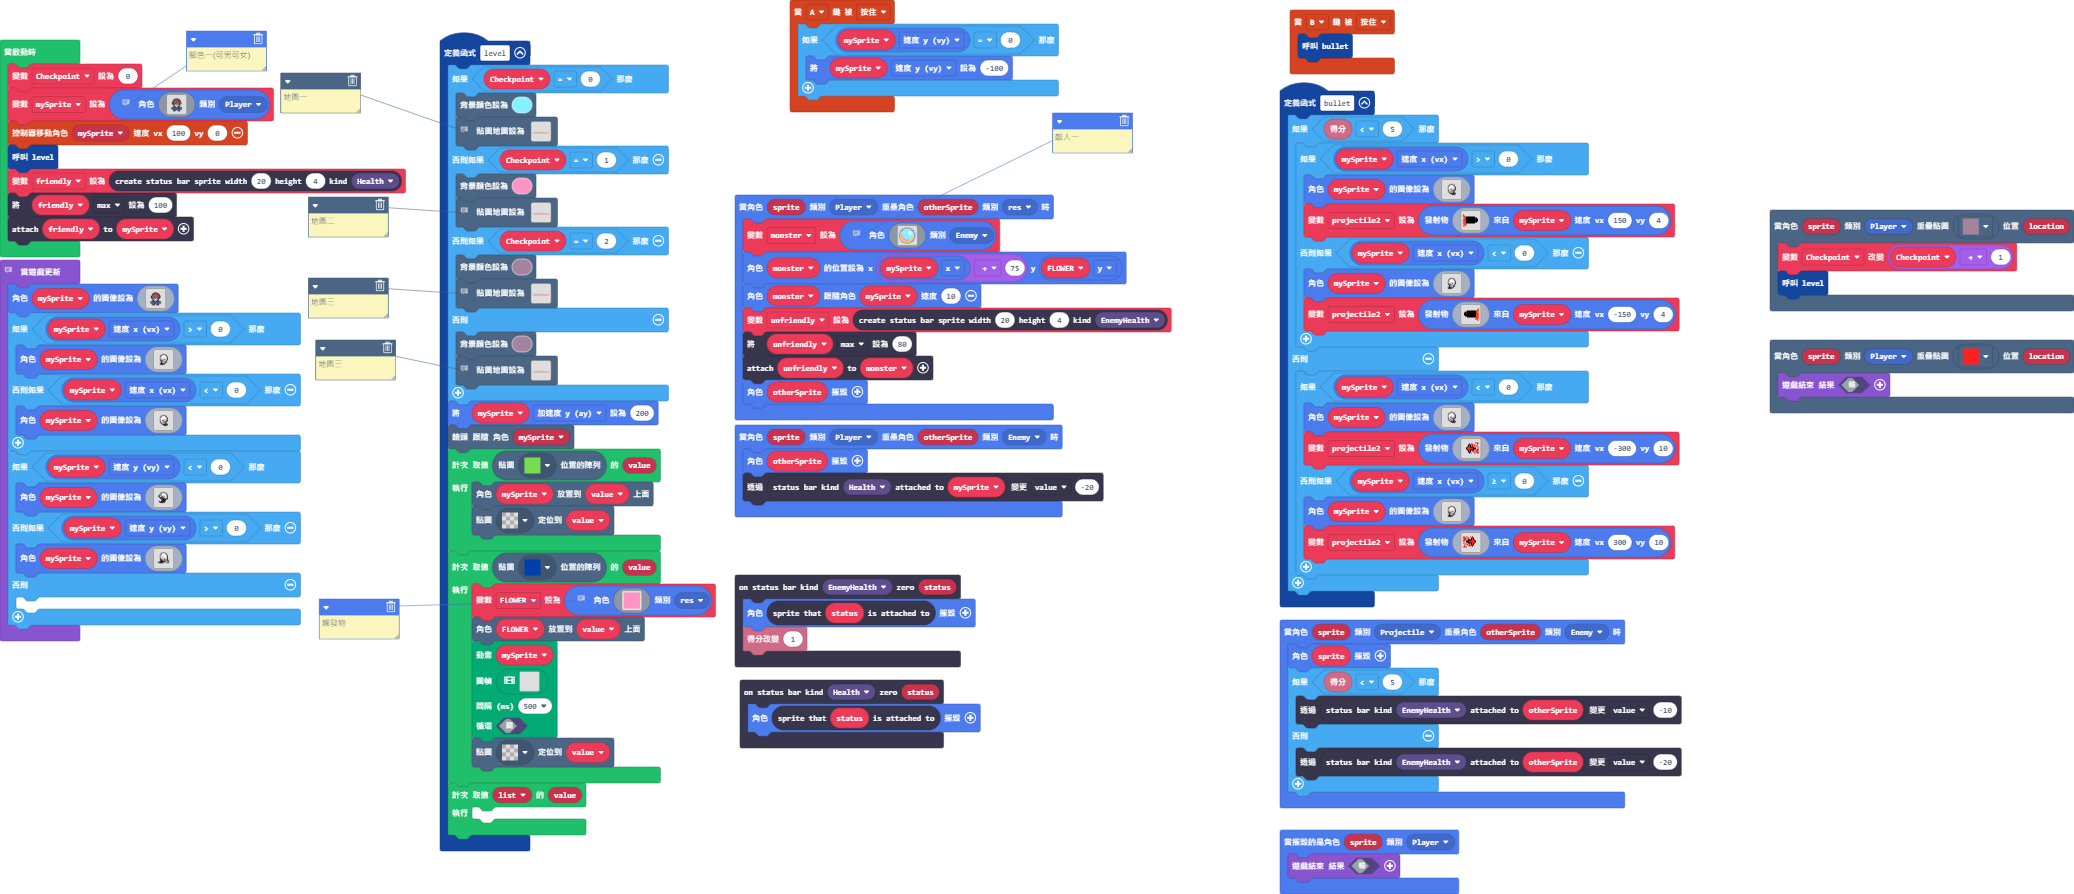
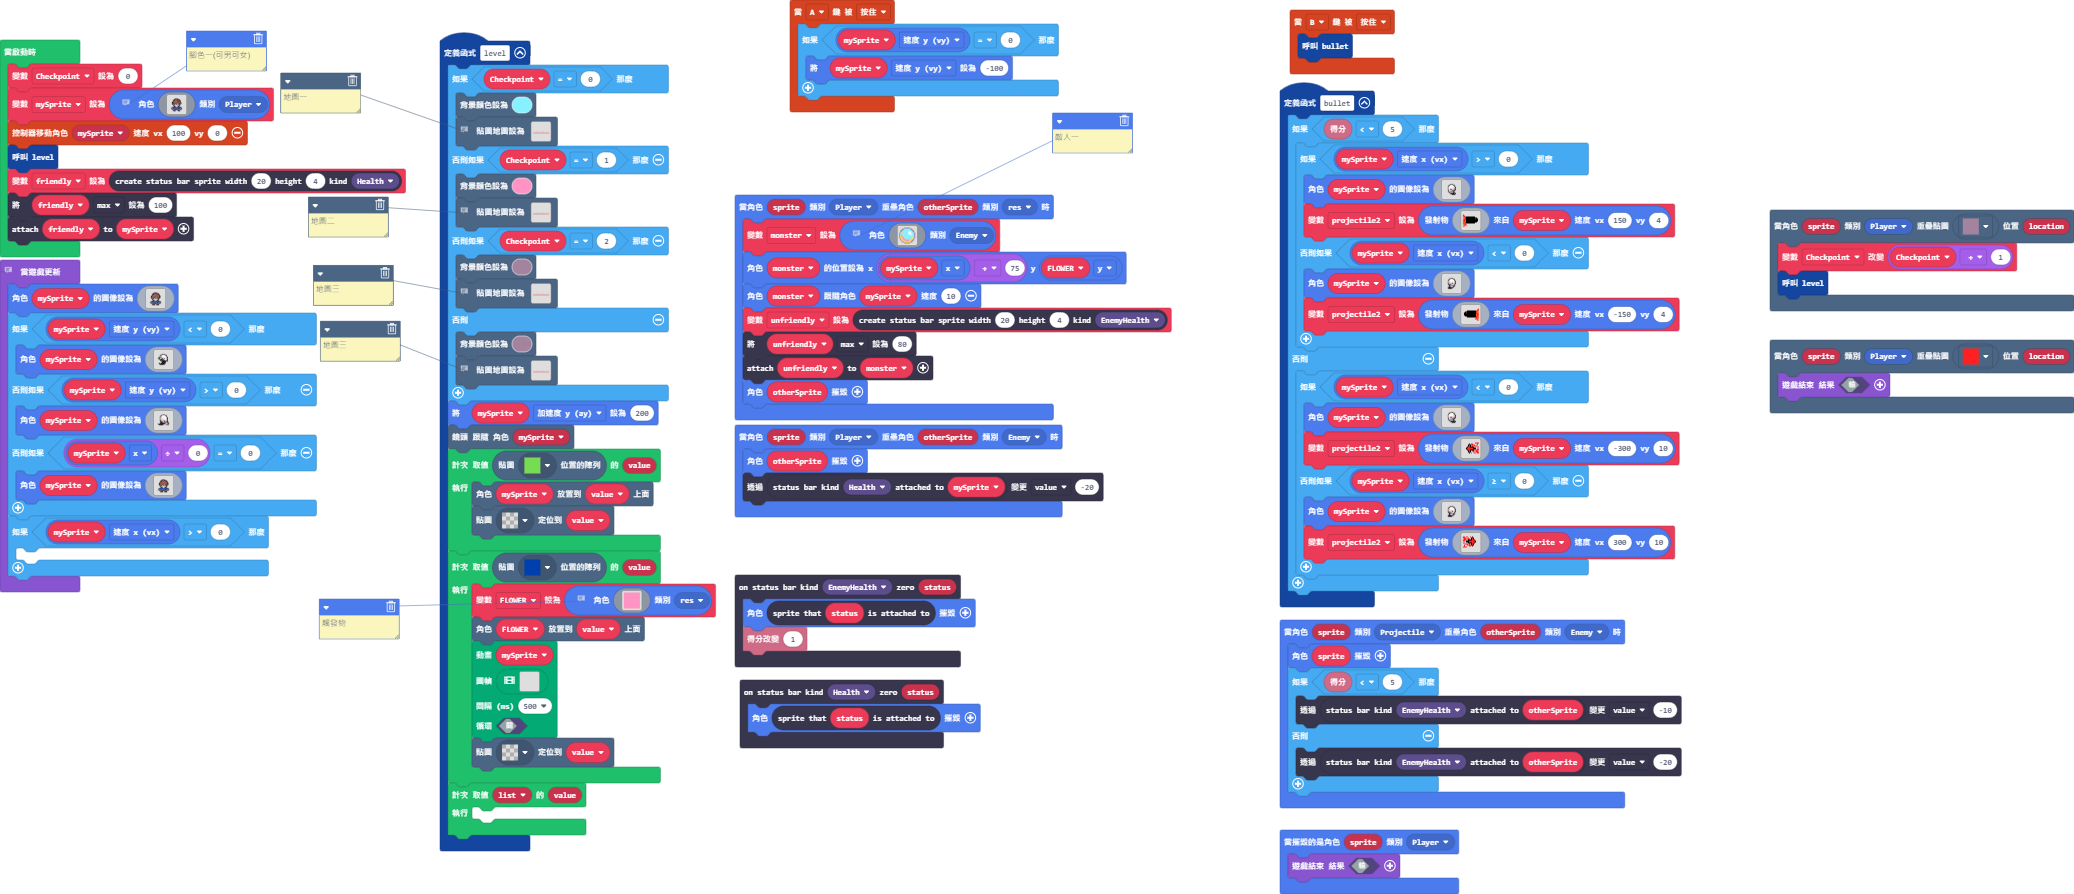
更新 main.blocks, main.ts

Changed region(s): [[0.0, 0.4832, 0.1543, 0.7248], [0.1234, 0.2718, 0.216, 0.453]]

diff --git a/main.ts b/main.ts
@@ -394,61 +394,6 @@ game.onUpdate(function () {
         ........................
         ........................
         `)
-    if (mySprite.vx > 0) {
-        mySprite.setImage(img`
-            ........................
-            ........................
-            ........................
-            ........................
-            ..........ffff..........
-            ........ff1111ff........
-            .......fb111111bf.......
-            .......fd1111111f.......
-            ......fdd1111111df......
-            ......fddd111111df......
-            ......fdddddd111df......
-            ......fbddddbfd1df......
-            ......fcbbbdcfddbf......
-            .......fcbb11111f.......
-            ........fffff1b1f.......
-            ........fb111cfbf.......
-            ........ffb1b1ff........
-            ......f.fffbfbf.........
-            ......ffffffff..........
-            .......fffff............
-            ........................
-            ........................
-            ........................
-            ........................
-            `)
-    } else if (mySprite.vx < 0) {
-        mySprite.setImage(img`
-            ........................
-            ........................
-            ........................
-            ........................
-            ..........ffff..........
-            ........ff1111ff........
-            .......fb111111bf.......
-            .......f1111111df.......
-            ......fd1111111ddf......
-            ......fd111111dddf......
-            ......fd111ddddddf......
-            ......fd1dfbddddbf......
-            ......fbddfcdbbbcf......
-            .......f11111bbcf.......
-            .......f1b1fffff........
-            .......fbfc111bf........
-            ........ff1b1bff........
-            .........fbfbfff.f......
-            ..........ffffffff......
-            ............fffff.......
-            ........................
-            ........................
-            ........................
-            ........................
-            `)
-    }
     if (mySprite.vy < 0) {
         mySprite.setImage(img`
             ........................
@@ -503,7 +448,35 @@ game.onUpdate(function () {
             ........................
             ........................
             `)
-    } else {
+    } else if (mySprite.x / 0 == 0) {
+        mySprite.setImage(img`
+            ........................
+            ........................
+            ........................
+            .........fffff..........
+            ........ffeeefff........
+            .......ffeeeeeeff.......
+            ......ffeeeeeeeeff......
+            ......feeeeeeeeeef......
+            .....ffeeeeeeeeeeff.....
+            .....feeeeeeeeeeeef.....
+            .....feeeefeeeeeeff.....
+            .....ffeef1fe1feff......
+            ......fefd6df6dff.......
+            .......fddddddddf.......
+            ........ffddddff........
+            .......f88fddf88f.......
+            .....ff8888888888ff.....
+            ....f888f888888f888f....
+            ....fddf.fcc5cf.fddf....
+            .....ff.fccffccf.ff.....
+            .......faaf..faaf.......
+            .......ffff..ffff.......
+            ........................
+            ........................
+            `)
+    }
+    if (mySprite.vx > 0) {
     	
     }
 })
